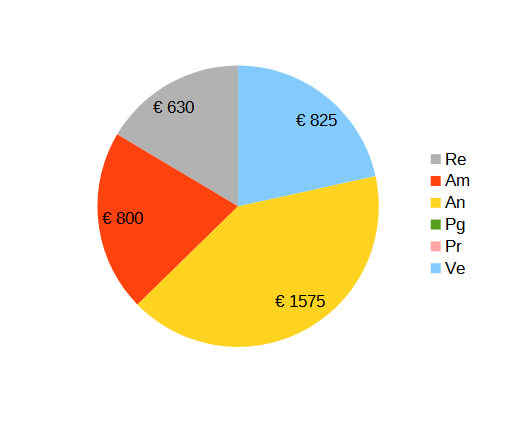
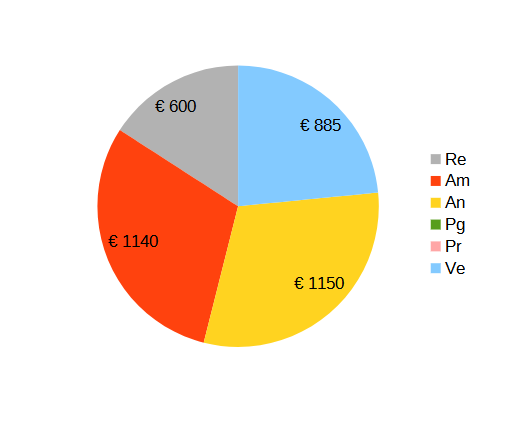
correzione consuntivo

diff --git a/esterni/piano_progetto/res/sez6_consuntivo.tex b/esterni/piano_progetto/res/sez6_consuntivo.tex
@@ -15,14 +15,14 @@ Verranno analizzate le ore di lavoro effettuate durante l'analisi dei requisiti,
 		\begin{tabular} { m{6 cm} c c c c c c c c }
 			\rowcolor{lightgray}
 			\textbf{Nome} & \textbf{Re} & \textbf{Am} & \textbf{An} & \textbf{Pg} &\textbf{Pr} & \textbf{Ve} & \textbf{Totale} \\ 
-			Matteo Alba & 0 & 8(+1) &8(-2) & 0 & 0 & 10(+1) & 26  \\ 
-			Giacomo Bulbarelli & 7 & 6(-1) & 8(+2) & 0 & 0 & 5(-1) & 26 \\ 
-			Alessandro Chimetto & 7(-1) & 0 & 11(+2) & 0 & 0 & 8(-1) & 26 \\
+			Matteo Alba & 0 & 8(-5) &8(+4) & 0 & 0 & 10(+1) & 26  \\ 
+			Giacomo Bulbarelli & 7(+4) & 6(-1) & 8(-2) & 0 & 0 & 5(-1) & 26 \\ 
+			Alessandro Chimetto & 7 & 0(-4) & 11(+4) & 0 & 0 & 8 & 26 \\
 			Alessandro Dindinelli & 0 & 4(-1) & 12(+1) & 0 & 0 & 10 & 26 \\
-			Lucia Fenu & 0 & 6(-1) & 10(-2) & 0 & 0 & 10(+3) & 26 \\
-			Paolo Scanferlato & 5(+1) & 7 & 6(-2) & 0 & 0 & 8(+1) & 26 \\
-			Valton Tahiraj & 6(+1) & 5(-2) &7 & 0 & 0 & 8(+1) & 26 \\
-			\textbf{Ore Totali Ruolo} & 25(+1) & 36(-4) & 62(-1) & 0 & 0 & 59(+4) & 182\\
+			Lucia Fenu & 0(-3) & 6(-4) & 10(+6) & 0 & 0 & 10(+1) & 26 \\
+			Paolo Scanferlato & 5(+1) & 7(-4) & 6(+2) & 0 & 0 & 8(+1) & 26 \\
+			Valton Tahiraj & 6(+3) & 5(-2) &7(+1) & 0 & 0 & 8(-2) & 26 \\
+			\textbf{Ore Totali Ruolo} & 25(+5) & 36(-21) & 62(+16) & 0 & 0 & 59 & 182\\
 		
 		\end{tabular}
 		\caption{Consuntivo - Analisi dei requisiti - ore per persona/ruolo}
@@ -50,14 +50,14 @@ Allo stesso modo, il costo in euro sarà così analizzato:
 		\rowcolors{2}{gray!25}{gray!6}
 		\begin{tabular} { m{3 cm} c c c  }
 			\rowcolor{lightgray}
-			\textbf{Ruolo} & \textbf{Ore} & \textbf{Costo in euro} \\
-			Responsabile & 25(+1) & 750,00 (+120,00) \\
-			Amministratore & 36(-4) & 720,00 (-80,00)  \\
-			Analista & 62(-1) & 1550 (-25,00) \\
+			\textbf{Ruolo} & \textbf{Ore} & \textbf{Costo in \euro} \\
+			Responsabile & 25(+5) & 750,00 (+150,00) \\
+			Amministratore & 36(-21) & 720,00 (-420,00)  \\
+			Analista & 62(+16) & 1550 (+400,00) \\
 			Progettista & 0 & 0 \\
 			Programmatore & 0 & 0  \\
-			Verificatore & 59(+4) & 885,00 (+60,00)  \\
-			\textbf{Totale} & 182  & 3905 (+75,00) \\
+			Verificatore & 59 & 885,00  \\
+			\textbf{Totale} & 182  & 3905 (+130,00) \\
 			
 		\end{tabular}
 		\caption{Consuntivo - Analisi dei requisiti - costo per ruolo}
@@ -73,16 +73,18 @@ Allo stesso modo, il costo in euro sarà così analizzato:
 \newpage 
 
 \subsubsection{Conclusioni}
-Il gruppo ha lavorato secondo le ore preventivate nel totale, anche se ci sono state delle correzioni all'interno dei ruoli dei singoli.
+Il gruppo nel complesso, ha lavorato secondo le ore preventivate seppur con alcune modifiche nella rotazione dei ruoli.
 Nello specifico:
 \begin{itemize}
-	\item {\bfseries responsabile}: le ore previste, nel complesso, sono state rispettate;
-	\item {\bfseries amministratore}: una maggiore attenzione nella gestione dei software e della documentazione, ha richiesto più tempo di quanto preventivato;
-	\item {\bfseries analista}: le ore previste, nel complesso, sono state rispettate;
-	\item {\bfseries verificatore}: grazie all'attenzione riposta nella gestione dei documenti, è stato svolto il ruolo di verificatore in meno ore rispetto alla previsione.\\
+	\item {\bfseries responsabile}: le ore previste, nel complesso, sono state rispettate. Per parallelizzare meglio il lavoro, è stato incluso un membro all'interno del ruolo (rispetto al preventivo), alleggerendo anche il carico ad altri membri;
+	\item {\bfseries amministratore}: il lavoro previsto per la stesura dei documenti ha richiesto più ore rispetto a quelle preventivate, distribuite su tutti i membri;
+	\item {\bfseries analista}: la stesura dell'\dext{Analisi dei requisiti} ha richiesto meno tempo rispetto a quanto preventivato e dunque, le ore mancanti, sono state distribuite nei restanti ruoli che ne necessitavano di più;
+	\item {\bfseries verificatore}: grazie all'attenzione riposta nella gestione dei documenti, è stato svolto il ruolo di verificatore nelle ore previste.\\
 	
 \end{itemize}
 
+
+
 	\subsubsection{Preventivo a finire}
-	A causa della variazione oraria di alcuni ruoli, il totale prevede una spesa inferiore di euro 75,00 rispetto a quanto preventivato.
+	A causa della variazione oraria di alcuni ruoli, il totale prevede una spesa inferiore di \euro 130,00 rispetto a quanto preventivato.
 	Tuttavia, la fase di analisi dei requisiti, non è rendicontata.

diff --git a/esterni/piano_progetto/main.tex b/esterni/piano_progetto/main.tex
@@ -18,9 +18,9 @@
 
 \setVersione{1.0.0}
 
-\setDate{08-01-2021}
+\setDate{10-01-2021}
 
-\setResponsabile{Valton Tahiraj}
+\setResponsabile{Lucia Fenu}
 
 \setRedattori{
 	Alessandro Chimetto \\&
@@ -41,13 +41,13 @@
 
 \setModifiche{
 
-	1.0.0 & Valton Tahiraj			& Responsabile & 08-01-2021 & Revisione documento \\
+	1.0.0 & Lucia Fenu		& Responsabile & 10-01-2021 & Revisione documento \\
 	0.6.2 & Lucia Fenu & Verificatore & 08-01-2021 & Verifica sezione rischi \\
 	0.6.2 & Giacomo Bulbarelli & Redattore & 08-01-2021 & Aggiunto e compilato sezione riscontro rischi \\
 	0.6.1 & Valton Tahiraj  	  & Verificatore   & 06-01-2021 & Verifica correzioni preventivo tavelle e grafici\\
 	0.6.1 & Paolo Scanferato	  & Amministratore & 06-01-2021 & Correzione preventivo tabelle e grafici \\
 	0.6.0 & Valton Tahiraj        & Verificatore   & 06-01-2021 & Verificata sezione consuntivo \\
-	0.6.0 & Lucia Fenu            & Amministratore & 06-01-2021 & Aggiunto  sezione consuntivo \\
+	0.6.0 & Lucia Fenu            & Amministratore & 06-01-2021 & Aggiunto sezione consuntivo \\
 	0.5.0 & Valton Tahiraj        & Verificatore   & 05-01-2021 & Verificata sezione pianificazione \\
 	0.5.0 & Matteo Alba           & Amministratore & 05-01-2021 & Stesura sezione pianificazione\\
     0.4.0 & Paolo Scanferlato     & Verificatore   & 04-01-2021 & Verificato Analisi dei Rischi \\
@@ -66,11 +66,11 @@
 
 	\input{../../commons/template}
 	\newpage
-	\tableofcontents  % DA AGGIUNGERE
+	\tableofcontents  
 	\newpage
-	\listoffigures    % DA AGGIUNGERE
-	\listoftables     % DA AGGIUNGERE
-	\newpage          % da aggiungere a piacere per l'impaginazione
+	\listoffigures    
+	\listoftables      
+	\newpage          
 	
 	%--------------------------------
 	%
